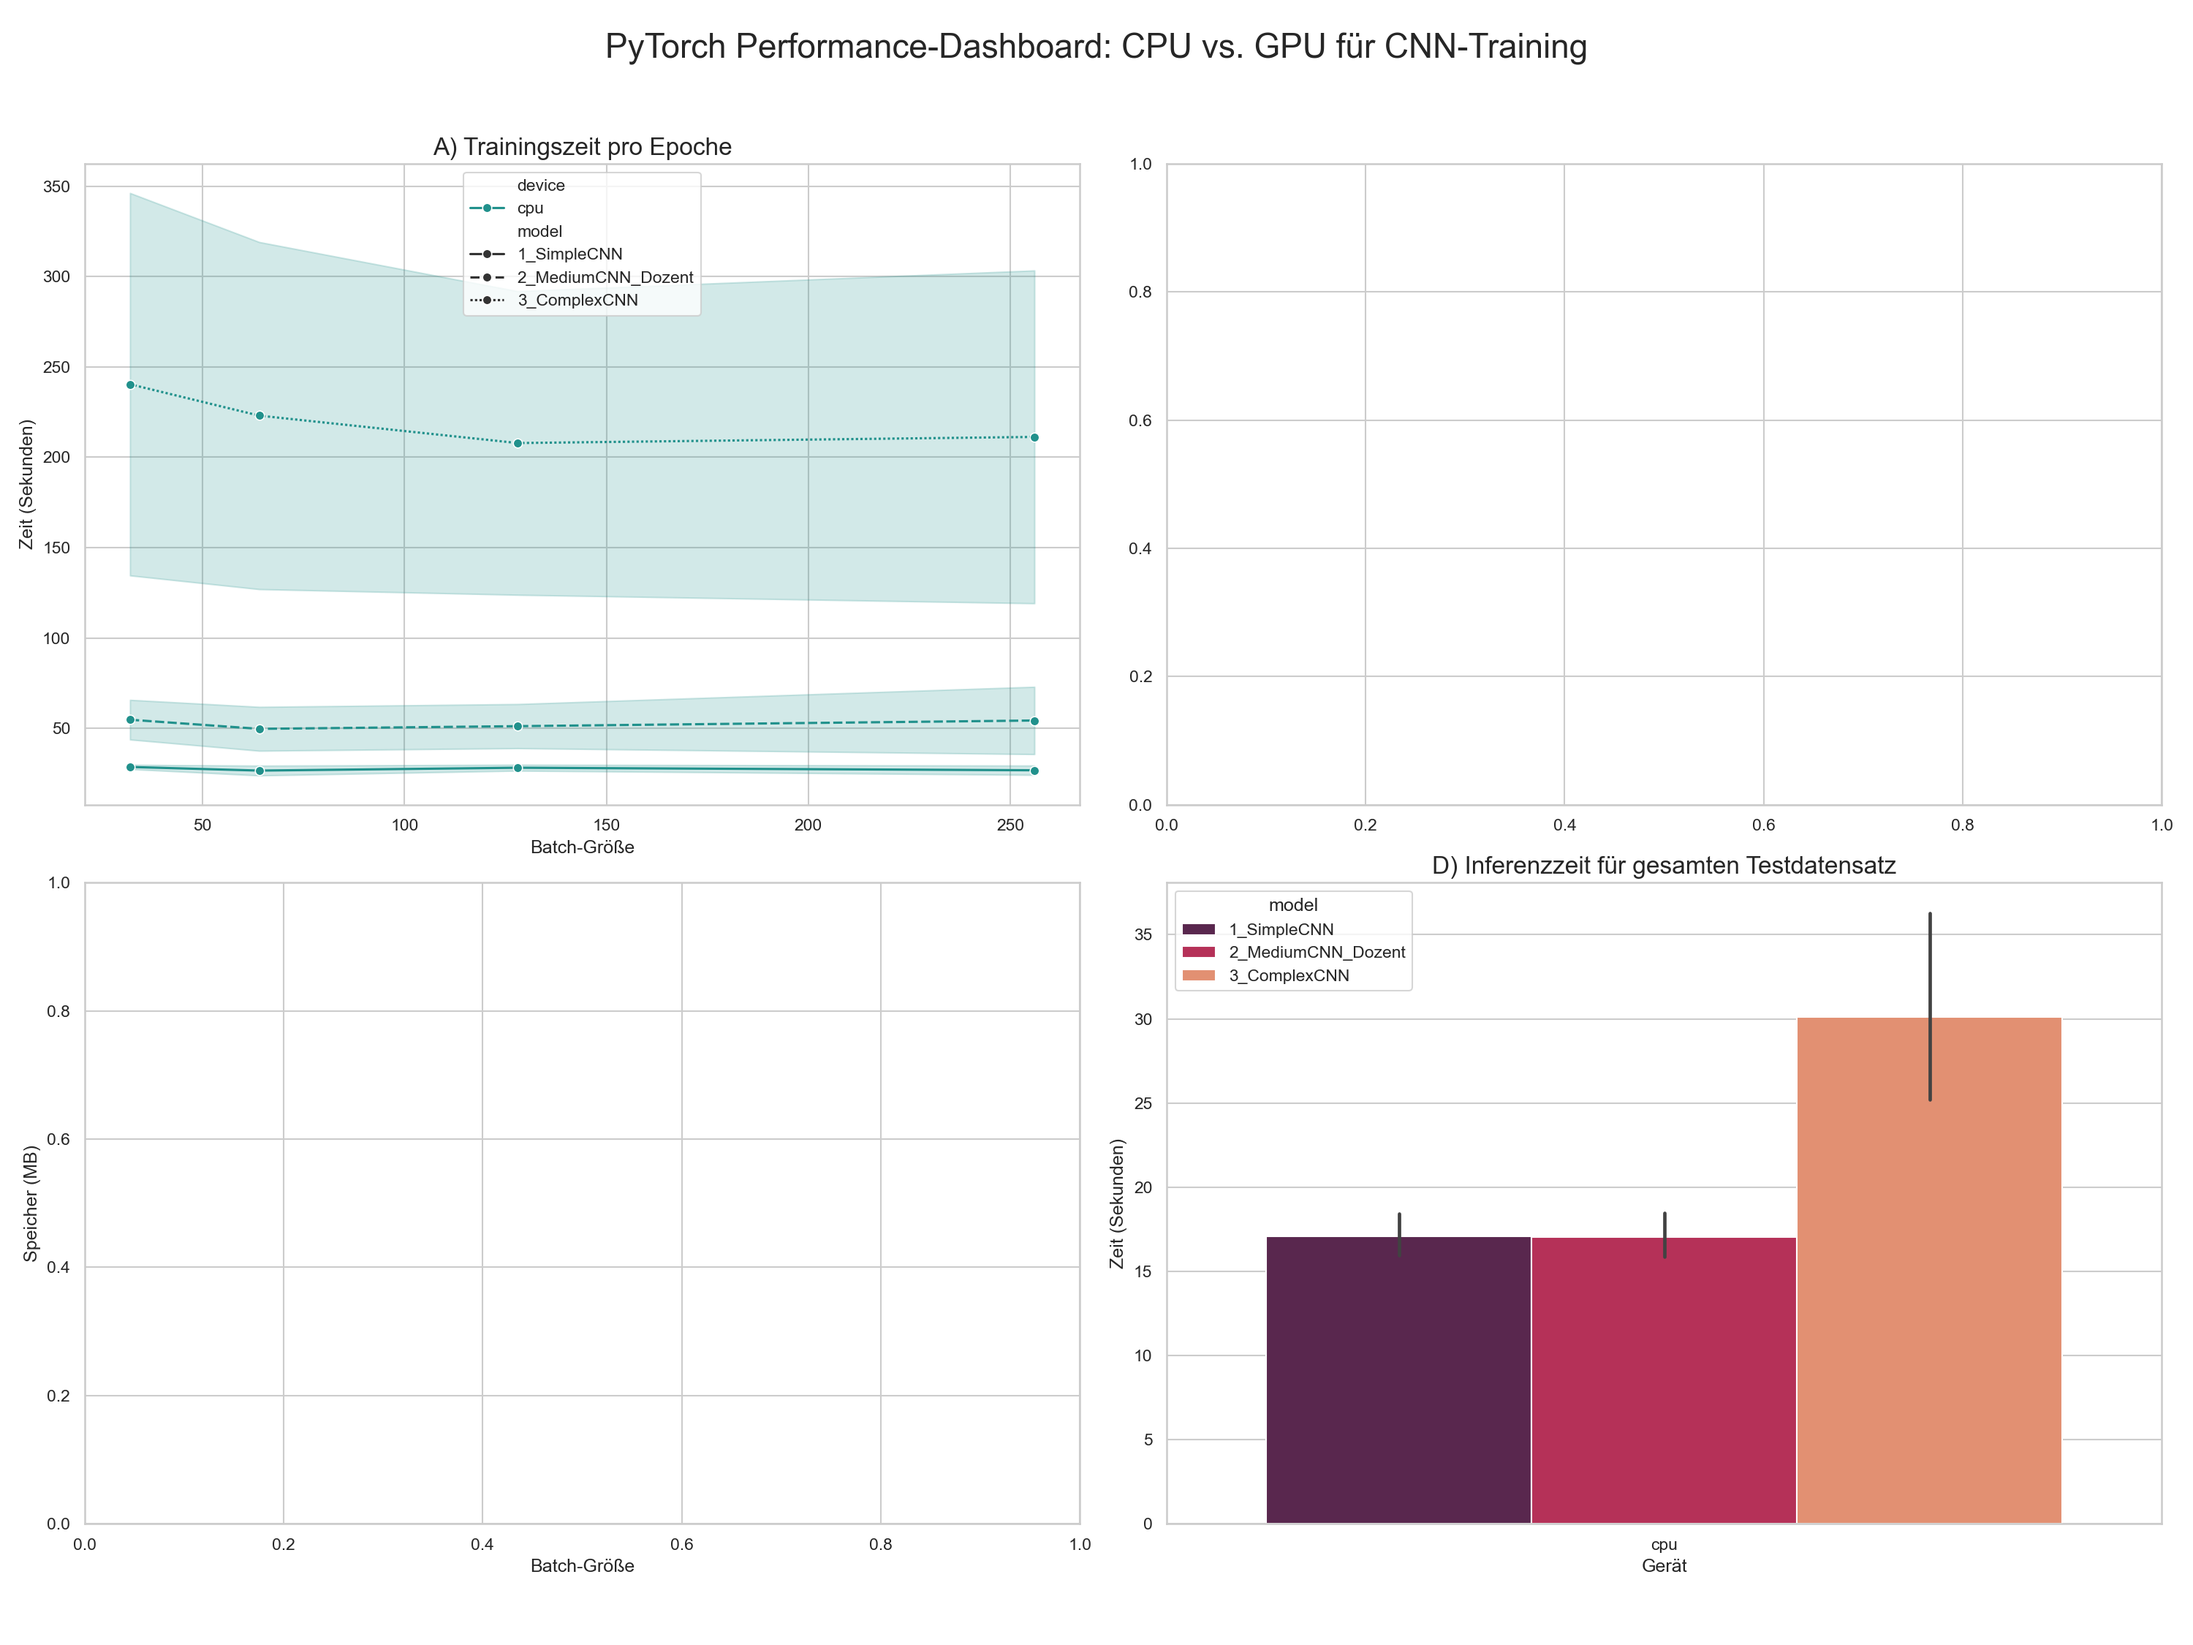
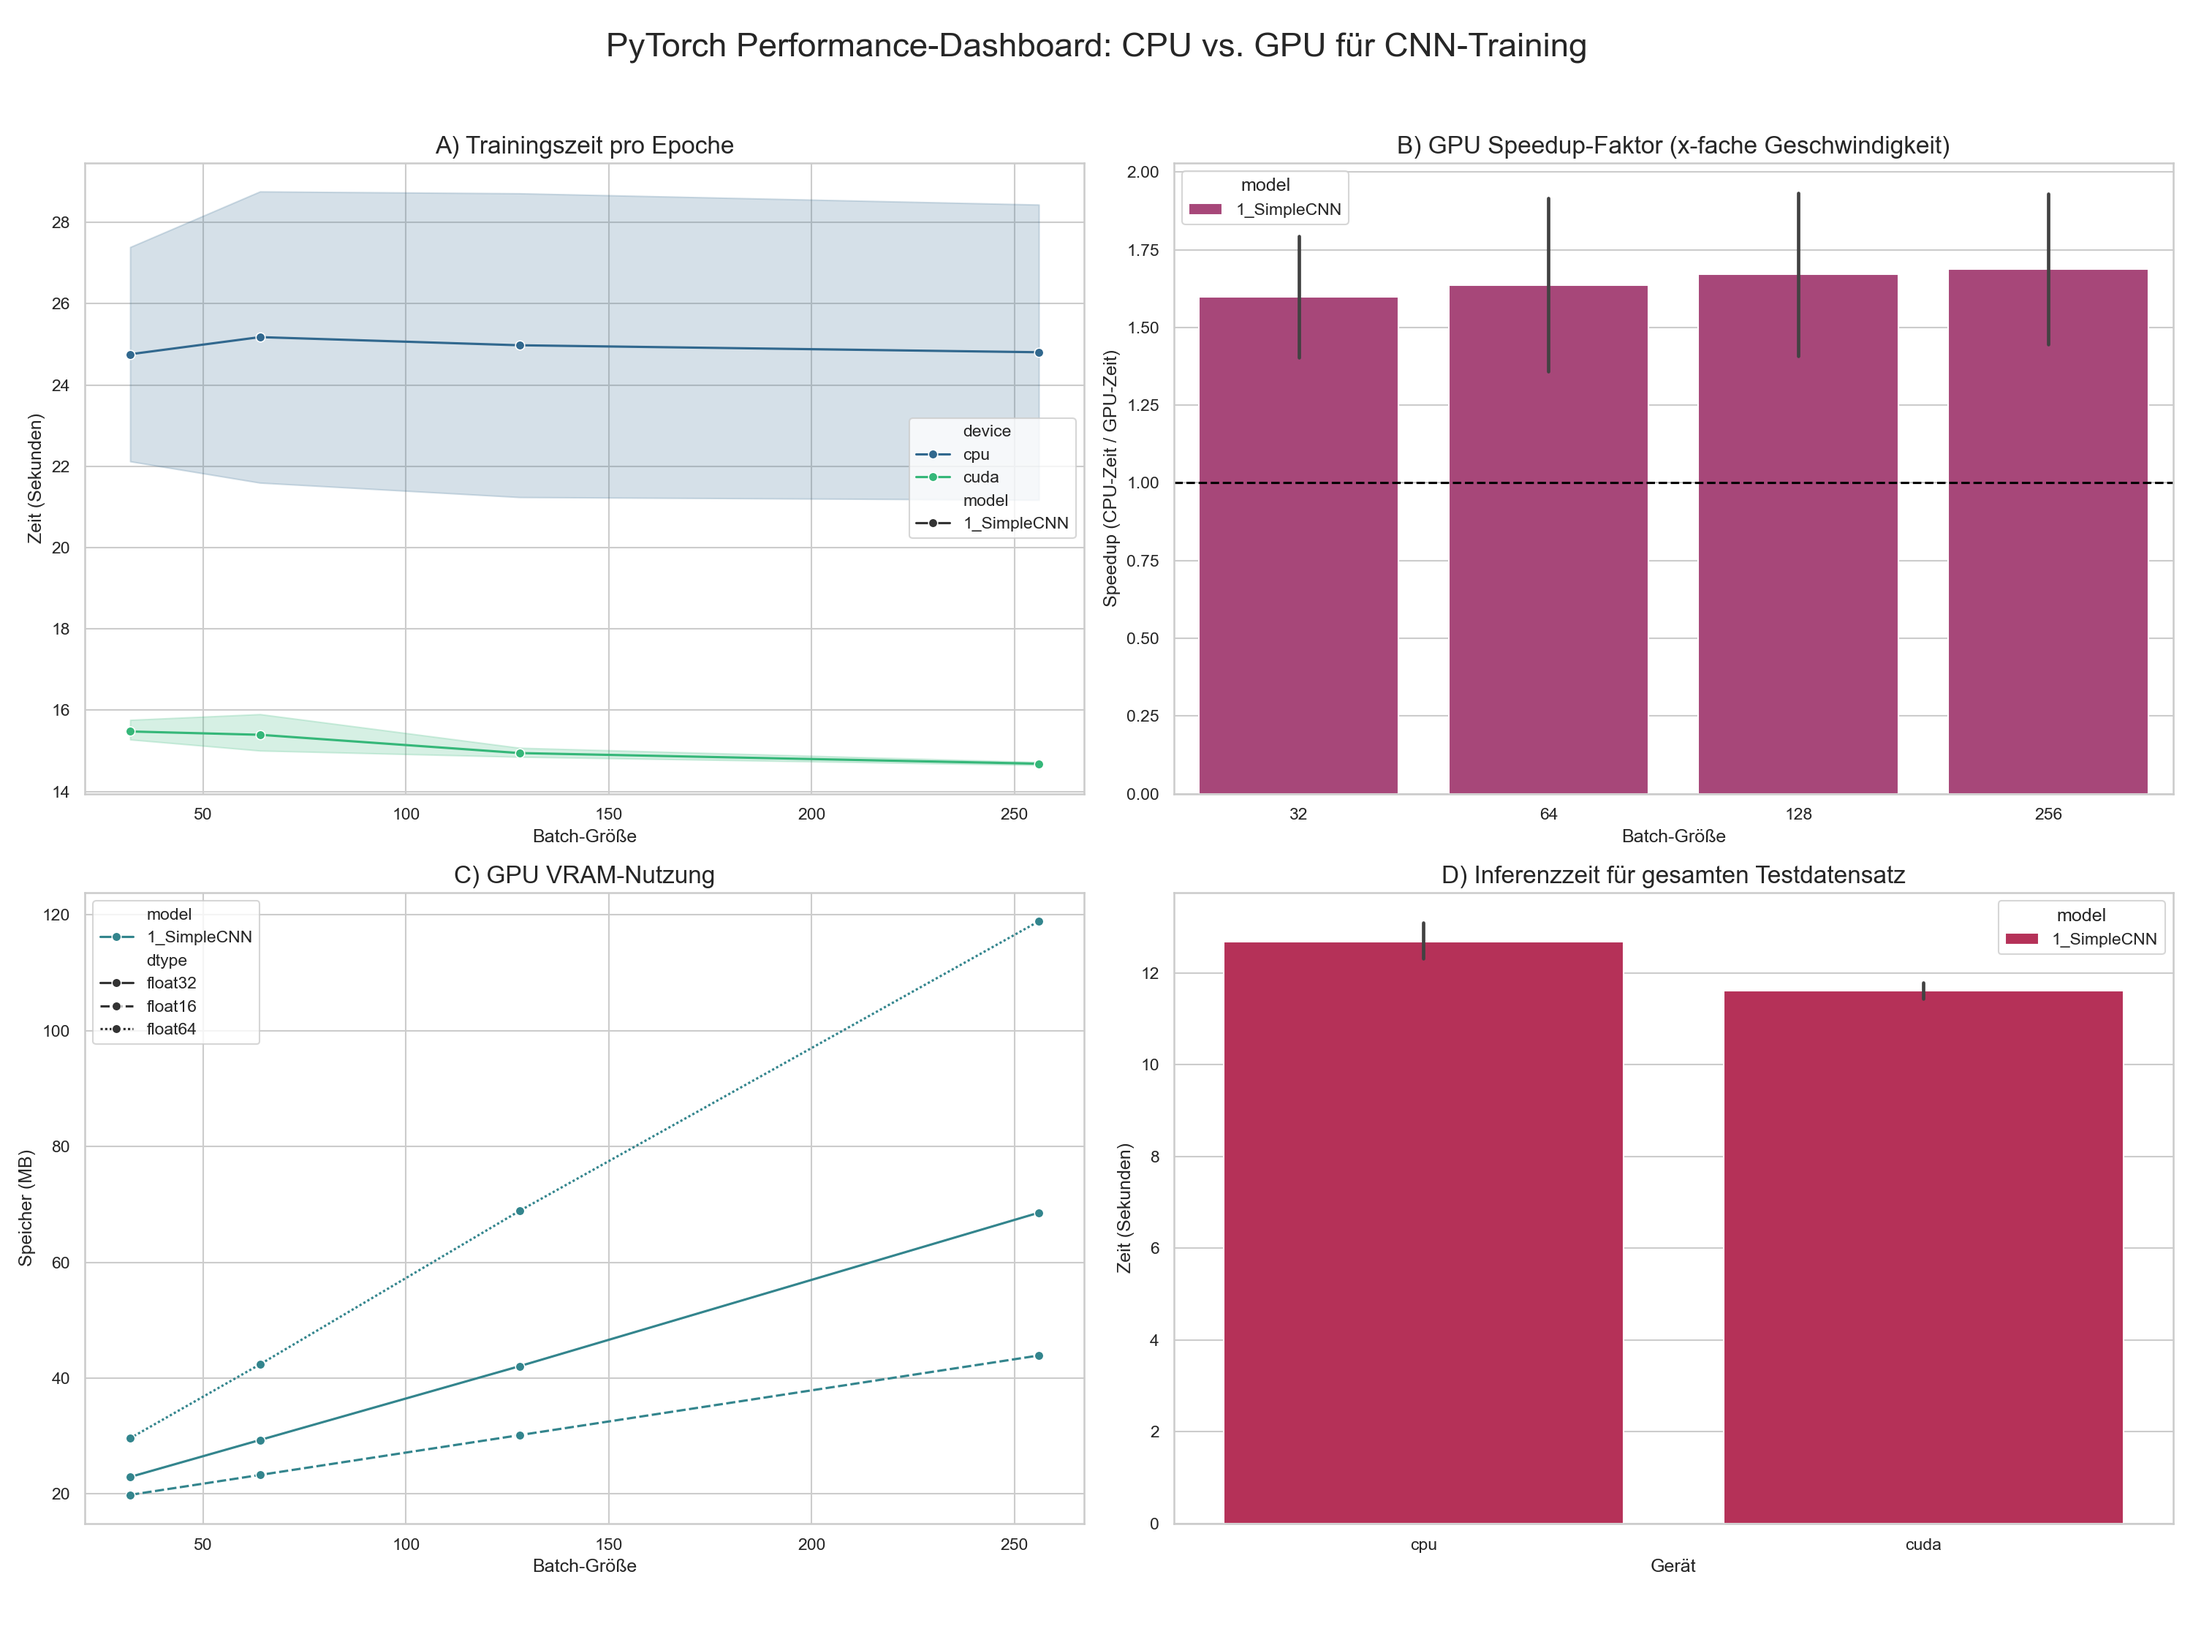
dotestfunktionierend

diff --git a/Experimente/Experiment_Tensorflow.py b/Experimente/Experiment_Tensorflow.py
@@ -67,13 +67,13 @@ def SimpleCNN_TF(num_classes=10):
         tf.keras.layers.Flatten(),
         tf.keras.layers.Dense(num_classes)
     ])
-
+"""
 def MediumCNN_TF(num_classes=10):
-    """
+    
     Stufe 2: Ein mittelkomplexes CNN.
     - Zwei separate Conv-Blöcke zur besseren Merkmalsextraktion.
     - Eine kleine Dense-Schicht vor der Ausgabe.
-    """
+    
     return tf.keras.Sequential([
         tf.keras.layers.Input((32, 32, 3)),
         tf.keras.layers.Conv2D(32, 3, padding='same', activation='relu'),
@@ -84,13 +84,14 @@ def MediumCNN_TF(num_classes=10):
         tf.keras.layers.Dense(64, activation='relu'),
         tf.keras.layers.Dense(num_classes)
     ])
-
+"""
+"""
 def ComplexCNN_TF(num_classes=10):
-    """
+    
     Stufe 3: Ein komplexeres, tieferes CNN.
     - Gestapelte Conv-Schichten innerhalb eines Blocks für komplexere Muster.
     - Eine große Dense-Schicht als leistungsfähiger Klassifikator.
-    """
+    
     return tf.keras.Sequential([
         tf.keras.layers.Input((32, 32, 3)),
         tf.keras.layers.Conv2D(32, 3, padding='same', activation='relu'),
@@ -102,16 +103,17 @@ def ComplexCNN_TF(num_classes=10):
         tf.keras.layers.Dense(512, activation='relu'),
         tf.keras.layers.Dense(num_classes)
     ])
-
+"""
+"""
 def UltraComplexCNN_TF(num_classes=10):
-    """
+    
     Stufe 4: Ein sehr tiefes und modernes CNN, inspiriert von gängigen Architekturen.
     - Verwendet die Keras Functional API für mehr Flexibilität.
     - Nutzt Blöcke aus (Conv2D -> BatchNormalization -> Mish-Aktivierung).
     - BatchNormalization stabilisiert das Training und beschleunigt die Konvergenz.
     - Mish ist eine moderne, glatte Aktivierungsfunktion, die oft bessere Ergebnisse als ReLU liefert.
     - Dropout wird zur Regularisierung eingesetzt, um Overfitting zu reduzieren.
-    """
+
     inputs = tf.keras.layers.Input(shape=(32, 32, 3))
     
     # Block 1
@@ -153,14 +155,14 @@ def UltraComplexCNN_TF(num_classes=10):
     outputs = tf.keras.layers.Dense(num_classes, activation='softmax')(x)
     
     return tf.keras.Model(inputs=inputs, outputs=outputs)
-
+"""
 # Dictionary, das die Namen der Modelle auf die zugehörigen Funktionen abbildet.
 # Dies ermöglicht es, einfach durch die zu testenden Modelle zu iterieren.
 MODELS_TO_TEST = {
     '1_SimpleCNN': SimpleCNN_TF,
-    '2_MediumCNN': MediumCNN_TF,
-    '3_ComplexCNN': ComplexCNN_TF,
-    '4_UltraComplexCNN': UltraComplexCNN_TF,
+    #'2_MediumCNN': MediumCNN_TF,
+   # '3_ComplexCNN': ComplexCNN_TF,
+   # '4_UltraComplexCNN': UltraComplexCNN_TF,
 }
 
 # =============================================================================
